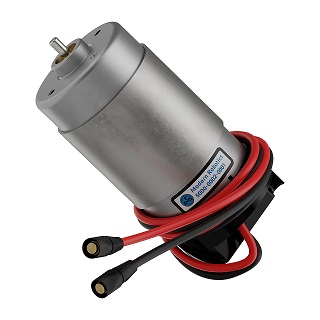
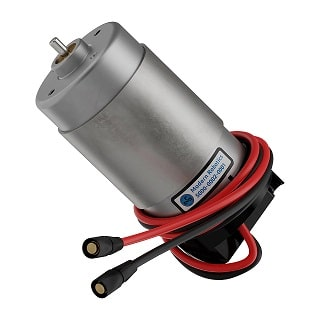
feat: resize and compress chassis and motor pictures

diff --git a/docs/.vuepress/components/DriveConstants/MotorData.ts b/docs/.vuepress/components/DriveConstants/MotorData.ts
@@ -308,14 +308,14 @@ const MotorGroup: MotorGroupItem[] = [
   {
     name: "REV Core Hex",
     key: "rev-core-hex",
-    src: "./assets/drive-constants/core-hex-quarter.jpg",
+    src: "./assets/drive-constants/core-hex-eighth.jpg",
     color: "orange",
     derivatives: [MotorList[MotorModel.REV_CORE_HEX]],
   },
   {
     name: "REV HD Hex",
     key: "rev-hd-hex",
-    src: "./assets/drive-constants/rev-hd-quarter.jpg",
+    src: "./assets/drive-constants/rev-hd-eighth.jpg",
     color: "orange",
     derivatives: [
       MotorList[MotorModel.REV_HD_HEX_PLANETARY_20],
@@ -326,14 +326,14 @@ const MotorGroup: MotorGroupItem[] = [
   {
     name: "Bare Motor",
     key: "am-neverest-bare",
-    src: "./assets/drive-constants/neverest-bare-half.jpg",
+    src: "./assets/drive-constants/neverest-bare-quarter.jpg",
     color: "red",
     derivatives: [MotorList[MotorModel.AM_NEVEREST_BARE]],
   },
   {
     name: "NeveRest Classic",
     key: "am-neverest-classic",
-    src: "./assets/drive-constants/neverest-classic-half.jpg",
+    src: "./assets/drive-constants/neverest-classic-quarter.jpg",
     color: "red",
     derivatives: [
       MotorList[MotorModel.AM_NEVEREST_CLASSIC_40],
@@ -343,7 +343,7 @@ const MotorGroup: MotorGroupItem[] = [
   {
     name: "NeveRest Orbital",
     key: "am-neverest-orbital",
-    src: "./assets/drive-constants/neverest-orbital-half.jpg",
+    src: "./assets/drive-constants/neverest-orbital-quarter.jpg",
     color: "red",
     derivatives: [
       MotorList[MotorModel.AM_NEVEREST_ORBITAL_3_7],
@@ -360,7 +360,7 @@ const MotorGroup: MotorGroupItem[] = [
   {
     name: "Tetrix TorqueNADO",
     key: "tetrix-torquenado",
-    src: "./assets/drive-constants/torquenado-quarter.jpg",
+    src: "./assets/drive-constants/torquenado-eighth.jpg",
     color: "blue",
     derivatives: [
       MotorList[MotorModel.TETRIX_TORQUENADO_20],
@@ -371,7 +371,7 @@ const MotorGroup: MotorGroupItem[] = [
   {
     name: "goBILDA 5201 Series",
     key: "gobilda-5201",
-    src: "./assets/drive-constants/gobilda-5201-quarter.jpg",
+    src: "./assets/drive-constants/gobilda-5201-eighth.jpg",
     color: "yellow",
     derivatives: [
       MotorList[MotorModel.GOBILDA_5201_26],
@@ -381,7 +381,7 @@ const MotorGroup: MotorGroupItem[] = [
   {
     name: "goBILDA 5202 Series",
     key: "gobilda-5202",
-    src: "./assets/drive-constants/gobilda-5202-quarter.jpg",
+    src: "./assets/drive-constants/gobilda-5202-eighth.jpg",
     color: "yellow",
     derivatives: [
       MotorList[MotorModel.GOBILDA_5202_3_7],

diff --git a/docs/.vuepress/components/DriveConstants/ConfigurationModal/ChassisSelection.vue b/docs/.vuepress/components/DriveConstants/ConfigurationModal/ChassisSelection.vue
@@ -20,7 +20,7 @@
         for="choice-chassis-strafer-v1"
       >
         <img
-          :src="$withBase('./assets/drive-constants/strafer-v1-quarter.jpg')"
+          :src="$withBase('./assets/drive-constants/strafer-v1-eighth.jpg')"
           class="xl:w-32 w-24 xl:h-32 h-24 object-cover"
         />
         <h3 class="lg:text-2xl text-xl">
@@ -47,7 +47,7 @@
         for="choice-chassis-strafer-v3"
       >
         <img
-          :src="$withBase('./assets/drive-constants/strafer-v3-quarter.jpg')"
+          :src="$withBase('./assets/drive-constants/strafer-v3-sixteenth.jpg')"
           class="xl:w-32 w-24 xl:h-32 h-24 object-cover"
         />
         <h3 class="lg:text-2xl text-xl">
